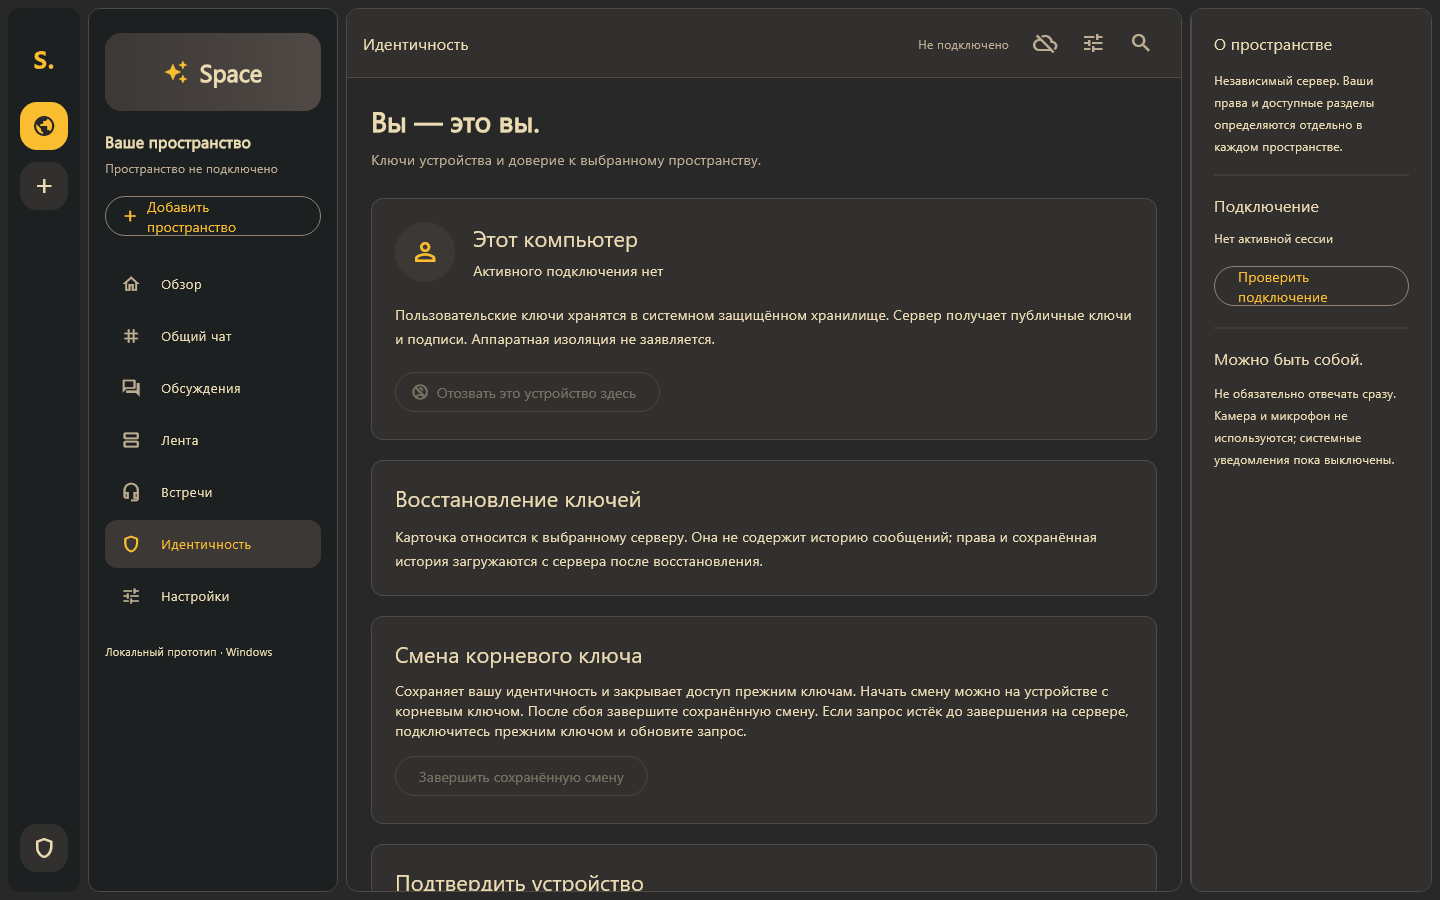
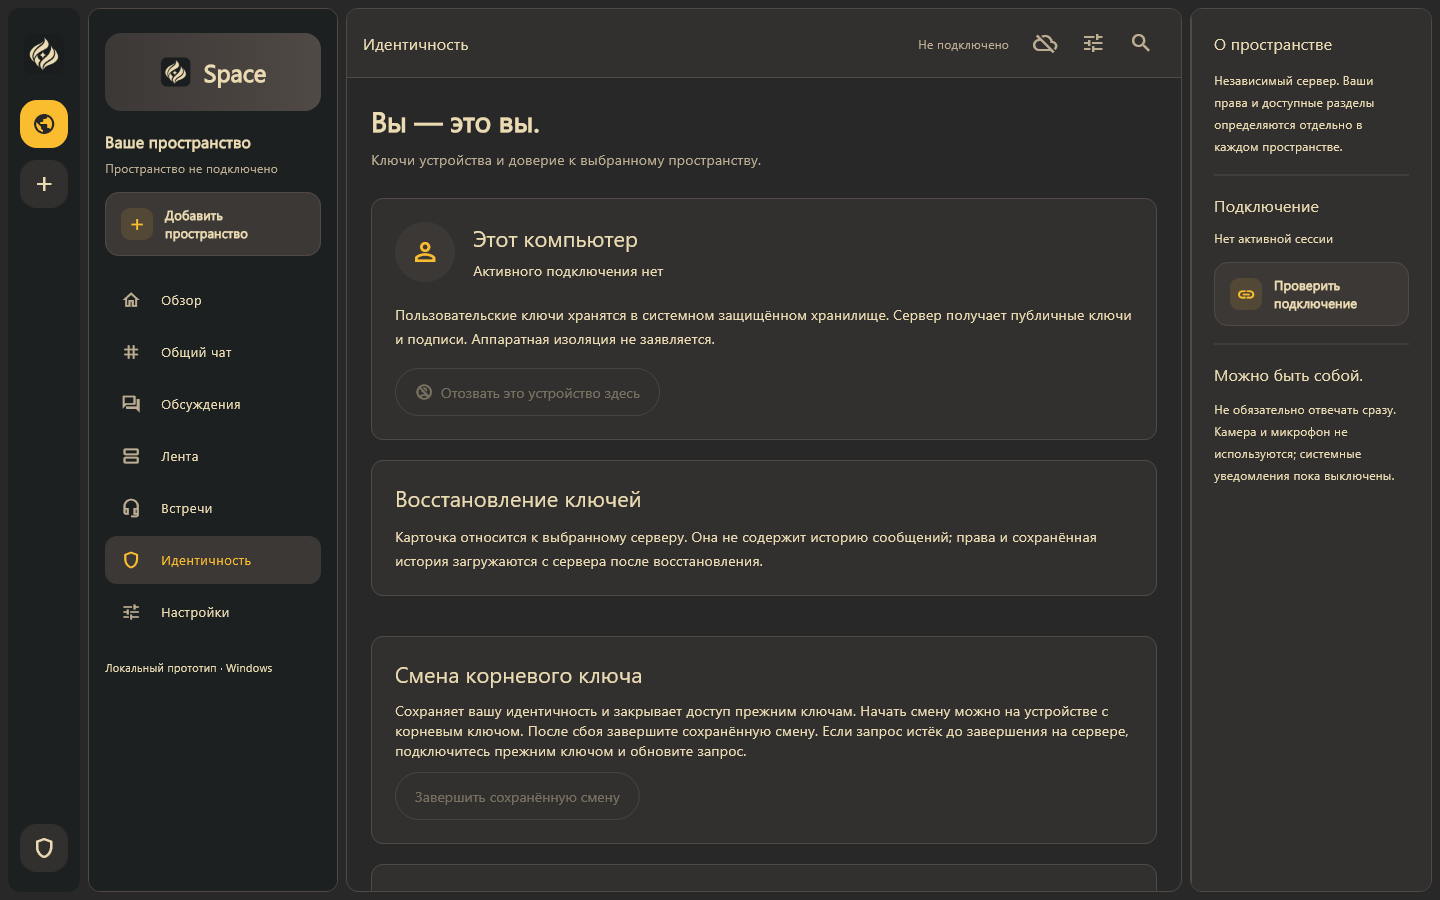
Сделать плавную карусель и обновить экраны Flutter

diff --git a/screen-demo.js b/screen-demo.js
@@ -5,41 +5,88 @@
     identity: {title:'Идентичность и восстановление',heading:'Ваши ключи. Ваш доступ.',text:'Состояние устройства, восстановление и ротация ключа находятся на странице идентичности. На снимке показана сборка без активного подключения.',alt:'Flutter-приложение Space: идентичность, восстановление ключей и ротация'},
     channels: {title:'Управление каналами',heading:'Правила рядом с разговором.',text:'Общие Flutter-формы позволяют настраивать каналы, порядок и архив. Этот снимок сделан в тестовой оболочке общего модуля; сейчас управление встроено в основное приложение.',alt:'Общие Flutter-формы: настройки пространства, список каналов и изменение канала'}
   };
+  const keys = Object.keys(screens);
   const tabs = [...document.querySelectorAll('[data-screen]')];
+  const dots = [...document.querySelectorAll('[data-carousel]')];
   const image = document.getElementById('screen-image');
+  const stage = document.getElementById('screen-stage');
+  const panel = document.getElementById('screen-panel');
   const dialog = document.getElementById('screen-dialog');
-  let current = 'chat';
-  function select(key) {
-    const screen = screens[key];
-    if (!screen) return;
-    current = key;
-    tabs.forEach(tab => {const active=tab.dataset.screen===key;tab.setAttribute('aria-selected',String(active));tab.tabIndex=active?0:-1;});
-    image.src = `assets/screens/${key}.png`;
-    image.alt = screen.alt;
-    document.getElementById('screen-panel').setAttribute('aria-labelledby',`tab-${key}`);
-    document.getElementById('screen-title').textContent = screen.title;
-    document.getElementById('screen-heading').textContent = screen.heading;
-    document.getElementById('screen-text').textContent = screen.text;
-    document.getElementById('screen-index').textContent = `0${tabs.findIndex(tab=>tab.dataset.screen===key)+1} / 04`;
+  const reducedMotion = window.matchMedia('(prefers-reduced-motion: reduce)');
+  const pictures = new Map();
+  let current = 'chat', requested = 'chat', generation = 0;
+  let touchStart = null;
+  function preload(key) {
+    if (!pictures.has(key)) {
+      const picture = new Image();
+      picture.src = `assets/screens/${key}.png`;
+      const ready = picture.decode ? picture.decode() : new Promise((resolve,reject)=>{if(picture.complete&&picture.naturalWidth)resolve();else{picture.onload=resolve;picture.onerror=reject;}});
+      pictures.set(key,ready.then(()=>picture).catch(error=>{pictures.delete(key);throw error;}));
+    }
+    return pictures.get(key);
   }
-  tabs.forEach((tab,index) => {
-    tab.addEventListener('click',()=>select(tab.dataset.screen));
+  function updateControls(key) {
+    tabs.forEach(tab=>{const active=tab.dataset.screen===key;tab.setAttribute('aria-selected',String(active));tab.tabIndex=active?0:-1;});
+    dots.forEach(dot=>dot.setAttribute('aria-pressed',String(dot.dataset.carousel===key)));
+  }
+  function animateChange(previous,direction) {
+    stage.querySelectorAll('.screen-outgoing').forEach(node=>node.remove());
+    image.getAnimations?.().forEach(animation=>animation.cancel());
+    if (reducedMotion.matches || typeof image.animate!=='function') return;
+    previous.removeAttribute('id');previous.className='screen-outgoing';previous.alt='';previous.setAttribute('aria-hidden','true');stage.append(previous);
+    const options={duration:320,easing:'cubic-bezier(.22,.65,.2,1)'};
+    previous.animate([{opacity:1,transform:'translateX(0)'},{opacity:0,transform:`translateX(${-direction*18}px)`}],options).finished.catch(()=>{}).finally(()=>previous.remove());
+    image.animate([{opacity:0,transform:`translateX(${direction*22}px)`},{opacity:1,transform:'translateX(0)'}],options);
+    document.querySelector('.screen-description').animate([{opacity:.35,transform:'translateY(5px)'},{opacity:1,transform:'translateY(0)'}],{duration:260,easing:'ease-out'});
+  }
+  async function select(key,direction=1) {
+    if (!screens[key] || key===requested) return;
+    requested=key;
+    const token=++generation;
+    updateControls(key);panel.setAttribute('aria-busy','true');
+    try {
+      const picture=await preload(key);
+      if(token!==generation)return;
+      const previous=image.cloneNode(false);
+      image.src=picture.src;image.alt=screens[key].alt;
+      current=key;
+      panel.setAttribute('aria-labelledby',`tab-${key}`);
+      document.getElementById('screen-title').textContent=screens[key].title;
+      document.getElementById('screen-heading').textContent=screens[key].heading;
+      document.getElementById('screen-text').textContent=screens[key].text;
+      document.getElementById('screen-index').textContent=`0${keys.indexOf(key)+1} / 04`;
+      animateChange(previous,direction);
+    } catch (_) {
+      if(token!==generation)return;
+      requested=current;updateControls(current);
+      document.getElementById('screen-text').textContent='Снимок не загрузился. Выберите экран ещё раз.';
+    } finally {if(token===generation)panel.setAttribute('aria-busy','false');}
+  }
+  function step(direction) {const index=keys.indexOf(requested);select(keys[(index+direction+keys.length)%keys.length],direction);}
+  tabs.forEach((tab,index)=>{
+    tab.addEventListener('click',()=>select(tab.dataset.screen,keys.indexOf(tab.dataset.screen)>=keys.indexOf(current)?1:-1));
     tab.addEventListener('keydown',event=>{
       let next;
-      if(event.key==='ArrowRight') next=(index+1)%tabs.length;
-      if(event.key==='ArrowLeft') next=(index+tabs.length-1)%tabs.length;
-      if(event.key==='Home') next=0;
-      if(event.key==='End') next=tabs.length-1;
+      if(event.key==='ArrowRight')next=(index+1)%tabs.length;
+      if(event.key==='ArrowLeft')next=(index+tabs.length-1)%tabs.length;
+      if(event.key==='Home')next=0;
+      if(event.key==='End')next=tabs.length-1;
       if(next===undefined)return;
-      event.preventDefault();select(tabs[next].dataset.screen);tabs[next].focus();
+      event.preventDefault();select(tabs[next].dataset.screen,next>=index?1:-1);tabs[next].focus();
     });
   });
+  dots.forEach(dot=>dot.addEventListener('click',()=>select(dot.dataset.carousel)));
+  document.getElementById('screen-prev').addEventListener('click',()=>step(-1));
+  document.getElementById('screen-next').addEventListener('click',()=>step(1));
+  panel.addEventListener('keydown',event=>{if(event.key==='ArrowRight'||event.key==='ArrowLeft'){event.preventDefault();step(event.key==='ArrowRight'?1:-1);}});
+  stage.addEventListener('touchstart',event=>{touchStart=event.touches.length===1?{x:event.touches[0].clientX,y:event.touches[0].clientY}:null;},{passive:true});
+  stage.addEventListener('touchend',event=>{if(!touchStart)return;const touch=event.changedTouches[0];const dx=touch.clientX-touchStart.x,dy=touch.clientY-touchStart.y;touchStart=null;if(Math.abs(dx)>45&&Math.abs(dx)>Math.abs(dy)*1.3)step(dx<0?1:-1);},{passive:true});
+  stage.addEventListener('touchcancel',()=>{touchStart=null;},{passive:true});
   document.getElementById('screen-expand').addEventListener('click',()=>{
-    const expanded=document.getElementById('dialog-image');
-    expanded.src=image.src;expanded.alt=image.alt;
+    const expanded=document.getElementById('dialog-image');expanded.src=image.src;expanded.alt=image.alt;
     document.getElementById('dialog-title').textContent=screens[current].title;
-    if(typeof dialog.showModal==='function')dialog.showModal();
-    else window.open(image.src,'_blank','noopener');
+    if(typeof dialog.showModal==='function')dialog.showModal();else window.open(image.src,'_blank','noopener');
   });
-  dialog.addEventListener('click',event=>{if(event.target===dialog){const bounds=dialog.getBoundingClientRect();if(event.clientX<bounds.left||event.clientX>bounds.right||event.clientY<bounds.top||event.clientY>bounds.bottom)dialog.close();}});
+  dialog.addEventListener('click',event=>{if(event.target!==dialog)return;const bounds=dialog.getBoundingClientRect();if(event.clientX<bounds.left||event.clientX>bounds.right||event.clientY<bounds.top||event.clientY>bounds.bottom)dialog.close();});
+  keys.forEach(key=>{preload(key).catch(()=>{});});
 })();

diff --git a/style.css b/style.css
@@ -8,3 +8,8 @@
 /* Реальные экраны приложения */
 .screen-tabs{display:flex;gap:8px;flex-wrap:wrap;margin:0 0 20px}.screen-tabs button,.screen-toolbar button,.dialog-toolbar button{font:inherit;color:inherit;cursor:pointer;border:1px solid var(--line);background:transparent;padding:13px 18px;font-size:12px;letter-spacing:.5px}.screen-tabs button[aria-selected="true"]{background:var(--paper);color:var(--ink);border-color:var(--paper)}.screen-tabs button:hover{border-color:var(--paper)}button:focus-visible{outline:2px solid var(--paper);outline-offset:4px}.screen-window{border:1px solid var(--line);background:#282828;box-shadow:0 18px 60px #0003}.screen-toolbar{display:flex;justify-content:space-between;align-items:center;padding:12px 18px;background:#222423;border-bottom:1px solid var(--line);font-size:11px;color:var(--muted)}.screen-toolbar>div{display:flex;align-items:center;gap:20px}.window-dots{font-size:9px;letter-spacing:4px;color:#736f64}.screen-toolbar button{padding:8px 12px;font-size:11px;color:var(--paper)}#screen-panel{margin:0;outline-offset:5px}#screen-image{width:100%;height:auto;max-height:650px;object-fit:contain;background:#282828}#screen-panel figcaption{display:flex;justify-content:space-between;padding:17px 20px;background:#222423;border-top:1px solid var(--line);font-size:12px}#screen-index{color:var(--muted);font-size:11px;letter-spacing:2px}.screen-description{display:grid;grid-template-columns:1fr 1.3fr;gap:35px;margin-top:30px;padding-top:24px;border-top:1px solid var(--line)}.screen-description h3{font-size:25px;font-weight:500;letter-spacing:-.5px}.screen-description p{color:var(--muted);font-size:14px;max-width:600px}.screen-provenance{font-size:11px;color:var(--muted);margin-top:23px;max-width:930px}#screen-dialog{width:min(96vw,1600px);max-width:96vw;max-height:94vh;padding:0;border:1px solid #777064;background:#282828;color:var(--paper)}#screen-dialog::backdrop{background:#000d;backdrop-filter:blur(5px)}.dialog-toolbar{display:flex;justify-content:space-between;align-items:center;padding:12px 20px;background:#222423;position:sticky;top:0;z-index:1}.dialog-toolbar strong{font-size:14px}.dialog-toolbar form{margin:0}.dialog-toolbar button{padding:9px 12px}.screen-provenance+noscript a{text-decoration:underline}#dialog-image{width:100%;height:auto;max-height:none}.ui-demo{border-top:1px solid var(--line)}
 @media(max-width:650px){.screen-tabs{flex-wrap:nowrap;overflow-x:auto;padding:3px 2px 12px;scrollbar-width:thin;scrollbar-color:#777064 transparent}.screen-tabs button{white-space:nowrap;flex:0 0 auto;font-size:11px;padding:12px 15px}.screen-toolbar{padding:10px}.screen-toolbar>div{gap:9px}.screen-toolbar button{font-size:10px;padding:7px 9px}.window-dots{display:none}.screen-description{grid-template-columns:1fr;gap:12px;margin-top:23px;padding-top:19px}.screen-description h3{font-size:23px}.screen-description p{font-size:13px}.screen-provenance{font-size:10px}#screen-panel figcaption{padding:13px 12px}.dialog-toolbar{padding:10px}.dialog-toolbar strong{font-size:12px}.dialog-toolbar button{font-size:11px}#screen-dialog{width:96vw}.screen-tabs::-webkit-scrollbar{height:4px}.screen-tabs::-webkit-scrollbar-thumb{background:#777064}}
+
+/* Карусель экранов */
+.screen-tabs{display:flex;gap:5px;padding:6px;border:1px solid var(--line);background:#ffffff04;border-radius:18px;width:fit-content;max-width:100%;margin-bottom:24px}.screen-tabs button{border:0;border-radius:12px;min-height:46px;padding:13px 22px;color:var(--muted);font-size:12px;letter-spacing:0;transition:background .22s ease,color .22s ease,box-shadow .22s ease}.screen-tabs button:hover{color:var(--paper);background:#ffffff08}.screen-tabs button[aria-selected="true"]{background:var(--paper);color:var(--ink);box-shadow:0 3px 10px #0002}.screen-window{border-radius:20px;overflow:hidden;box-shadow:0 22px 60px #0002;border-color:#eee5ce26}.screen-toolbar{padding:14px 20px}.screen-toolbar button,.dialog-toolbar button{border-radius:10px;min-height:40px;transition:background .2s ease,border-color .2s ease,transform .2s ease}.screen-toolbar button:hover,.dialog-toolbar button:hover{background:#ffffff08;border-color:#eee5ce60}.screen-toolbar button:active,.dialog-toolbar button:active{transform:scale(.97)}.screen-stage{position:relative;aspect-ratio:16/10;background:#282828;overflow:hidden;touch-action:pan-y pinch-zoom}.screen-stage #screen-image,.screen-stage .screen-outgoing{position:absolute;inset:0;width:100%;height:100%;max-height:none;object-fit:contain;background:#282828;will-change:opacity,transform}.screen-stage .screen-outgoing{pointer-events:none}#screen-panel figcaption{align-items:center;gap:14px;padding:14px 20px;min-height:70px}.carousel-controls{display:flex;align-items:center;gap:9px}.carousel-controls #screen-index{margin-right:12px;white-space:nowrap}.carousel-arrow{display:grid;place-items:center;width:42px;height:42px;background:transparent;border:1px solid var(--line);border-radius:50%;color:var(--paper);cursor:pointer;transition:background .2s ease,border-color .2s ease,transform .2s ease}.carousel-arrow svg{width:20px;height:20px;fill:none;stroke:currentColor;stroke-width:1.5;stroke-linecap:round;stroke-linejoin:round}.carousel-arrow:hover{background:var(--paper);color:var(--ink);border-color:var(--paper)}.carousel-arrow:active{transform:scale(.93)}.carousel-pagination{display:flex;align-items:center;justify-content:center;gap:0;margin:10px 0 0}.carousel-pagination button{display:flex;align-items:center;justify-content:center;width:36px;height:40px;padding:0;border:0;background:transparent;cursor:pointer}.carousel-pagination span{width:6px;height:6px;border-radius:20px;background:#eee5ce55;transition:width .25s ease,background .25s ease}.carousel-pagination [aria-pressed="true"] span{width:24px;background:var(--paper)}.carousel-pagination button:hover span{background:var(--paper)}.screen-description{margin-top:12px}.screen-description h3,.screen-description p{transition:opacity .2s ease}#screen-dialog{border-radius:16px;box-shadow:0 35px 100px #0008}#screen-dialog[open]{animation:dialog-enter .24s ease-out}#screen-dialog[open]::backdrop{animation:backdrop-enter .24s ease-out}@keyframes dialog-enter{from{opacity:0;transform:translateY(14px) scale(.98)}to{opacity:1;transform:none}}@keyframes backdrop-enter{from{opacity:0}to{opacity:1}}
+@media(max-width:650px){.screen-tabs{width:100%;border-radius:14px;padding:5px;gap:4px;scrollbar-width:none}.screen-tabs::-webkit-scrollbar{display:none}.screen-tabs button{padding:11px 15px;min-height:44px;border-radius:10px;font-size:11px}.screen-window{border-radius:14px}.screen-toolbar{padding:10px 12px}.screen-toolbar button{font-size:10px;min-height:36px;padding:7px 10px}#screen-panel figcaption{padding:12px;min-height:66px;font-size:11px}.carousel-controls{gap:7px}.carousel-controls #screen-index{font-size:9px;margin-right:3px;letter-spacing:1px}.carousel-arrow{width:36px;height:36px}.screen-stage{aspect-ratio:4/3}.screen-description{margin-top:8px}}
+@media(prefers-reduced-motion:reduce){.screen-tabs button,.carousel-arrow,.carousel-pagination span,.screen-toolbar button,.dialog-toolbar button,.screen-description h3,.screen-description p{transition:none}#screen-dialog[open],#screen-dialog[open]::backdrop{animation:none}}

diff --git a/index.html b/index.html
@@ -21,7 +21,7 @@
 
 <section class="ui-demo dark section" id="interface" aria-labelledby="ui-title">
 <div class="section-label"><span>03 / ПРИЛОЖЕНИЕ В ДЕТАЛЯХ</span><span>FLUTTER · WINDOWS</span></div>
-<div class="inside-heading"><h2 id="ui-title">Одно окно.<br><em>Разные возможности.</em></h2><p>Посмотрите, как устроен Space.<br>Переключайте экраны и изучайте детали.</p></div>
+<div class="inside-heading"><h2 id="ui-title">Одно окно.<br><em>Разные возможности.</em></h2><p>Посмотрите, как устроен Space.<br>Листайте экраны и изучайте детали.</p></div>
 <div class="screen-tabs" role="tablist" aria-label="Экраны приложения">
 <button id="tab-chat" type="button" role="tab" aria-selected="true" aria-controls="screen-panel" data-screen="chat">01 / Чат</button>
 <button id="tab-settings" type="button" role="tab" aria-selected="false" aria-controls="screen-panel" tabindex="-1" data-screen="settings">02 / Настройки</button>
@@ -29,9 +29,9 @@
 <button id="tab-channels" type="button" role="tab" aria-selected="false" aria-controls="screen-panel" tabindex="-1" data-screen="channels">04 / Управление</button>
 </div>
 <div class="screen-window"><div class="screen-toolbar"><div><span class="window-dots" aria-hidden="true">● ● ●</span><span>Space / Windows</span></div><button type="button" id="screen-expand" aria-haspopup="dialog">Открыть крупнее ↗</button></div>
-<figure id="screen-panel" role="tabpanel" aria-labelledby="tab-chat" tabindex="0"><img id="screen-image" src="assets/screens/chat.png" width="1440" height="900" alt="Flutter-приложение Space: общий чат и боковая навигация, подключение ещё не выполнено" loading="lazy"><figcaption><span id="screen-title">Общий чат</span><span id="screen-index">01 / 04</span></figcaption></figure></div>
-<div class="screen-description" aria-live="polite"><h3 id="screen-heading">Разговор в центре.</h3><p id="screen-text">Каналы и разделы слева, общение в центре, контекст пространства справа. На снимке показан экран до подключения к серверу.</p></div>
-<p class="screen-provenance">Реальные снимки ранних тестовых сборок. Первые три экрана — Windows-клиент; управление — общие Flutter-формы из изолированной проверки. Данные тестовые. Логотип и отдельные детали текущей версии могут отличаться.</p>
+<figure id="screen-panel" role="tabpanel" aria-labelledby="tab-chat" tabindex="0"><div class="screen-stage" id="screen-stage"><img id="screen-image" src="assets/screens/chat.png" width="1440" height="900" alt="Flutter-приложение Space: общий чат и боковая навигация, подключение ещё не выполнено" loading="lazy"></div><figcaption><span id="screen-title">Общий чат</span><div class="carousel-controls"><span id="screen-index">01 / 04</span><button type="button" id="screen-prev" class="carousel-arrow" aria-label="Предыдущий экран"><svg viewBox="0 0 24 24" aria-hidden="true"><path d="m14 6-6 6 6 6"/></svg></button><button type="button" id="screen-next" class="carousel-arrow" aria-label="Следующий экран"><svg viewBox="0 0 24 24" aria-hidden="true"><path d="m10 6 6 6-6 6"/></svg></button></div></figcaption></figure></div>
+<div class="carousel-pagination" aria-label="Быстрый выбор экрана"><button type="button" data-carousel="chat" aria-label="Показать чат" aria-pressed="true"><span></span></button><button type="button" data-carousel="settings" aria-label="Показать настройки" aria-pressed="false"><span></span></button><button type="button" data-carousel="identity" aria-label="Показать идентичность" aria-pressed="false"><span></span></button><button type="button" data-carousel="channels" aria-label="Показать управление" aria-pressed="false"><span></span></button></div><div class="screen-description" aria-live="polite"><h3 id="screen-heading">Разговор в центре.</h3><p id="screen-text">Каналы и разделы слева, общение в центре, контекст пространства справа. На снимке показан экран до подключения к серверу.</p></div>
+<p class="screen-provenance">Первые три снимка получены из текущего Flutter-интерфейса на Windows без активного подключения: с новым логотипом и обновлёнными кнопками. Экран управления — общие Flutter-формы из ранней изолированной проверки. Данные тестовые.</p>
 <noscript><p>Без JavaScript остальные экраны доступны по ссылкам: <a href="assets/screens/settings.png">настройки</a>, <a href="assets/screens/identity.png">идентичность</a>, <a href="assets/screens/channels.png">управление каналами</a>.</p></noscript>
 <dialog id="screen-dialog" aria-labelledby="dialog-title"><div class="dialog-toolbar"><strong id="dialog-title">Общий чат</strong><form method="dialog"><button type="submit" aria-label="Закрыть снимок">Закрыть ✕</button></form></div><img id="dialog-image" src="assets/screens/chat.png" alt="Общий чат приложения Space"></dialog>
 </section>
